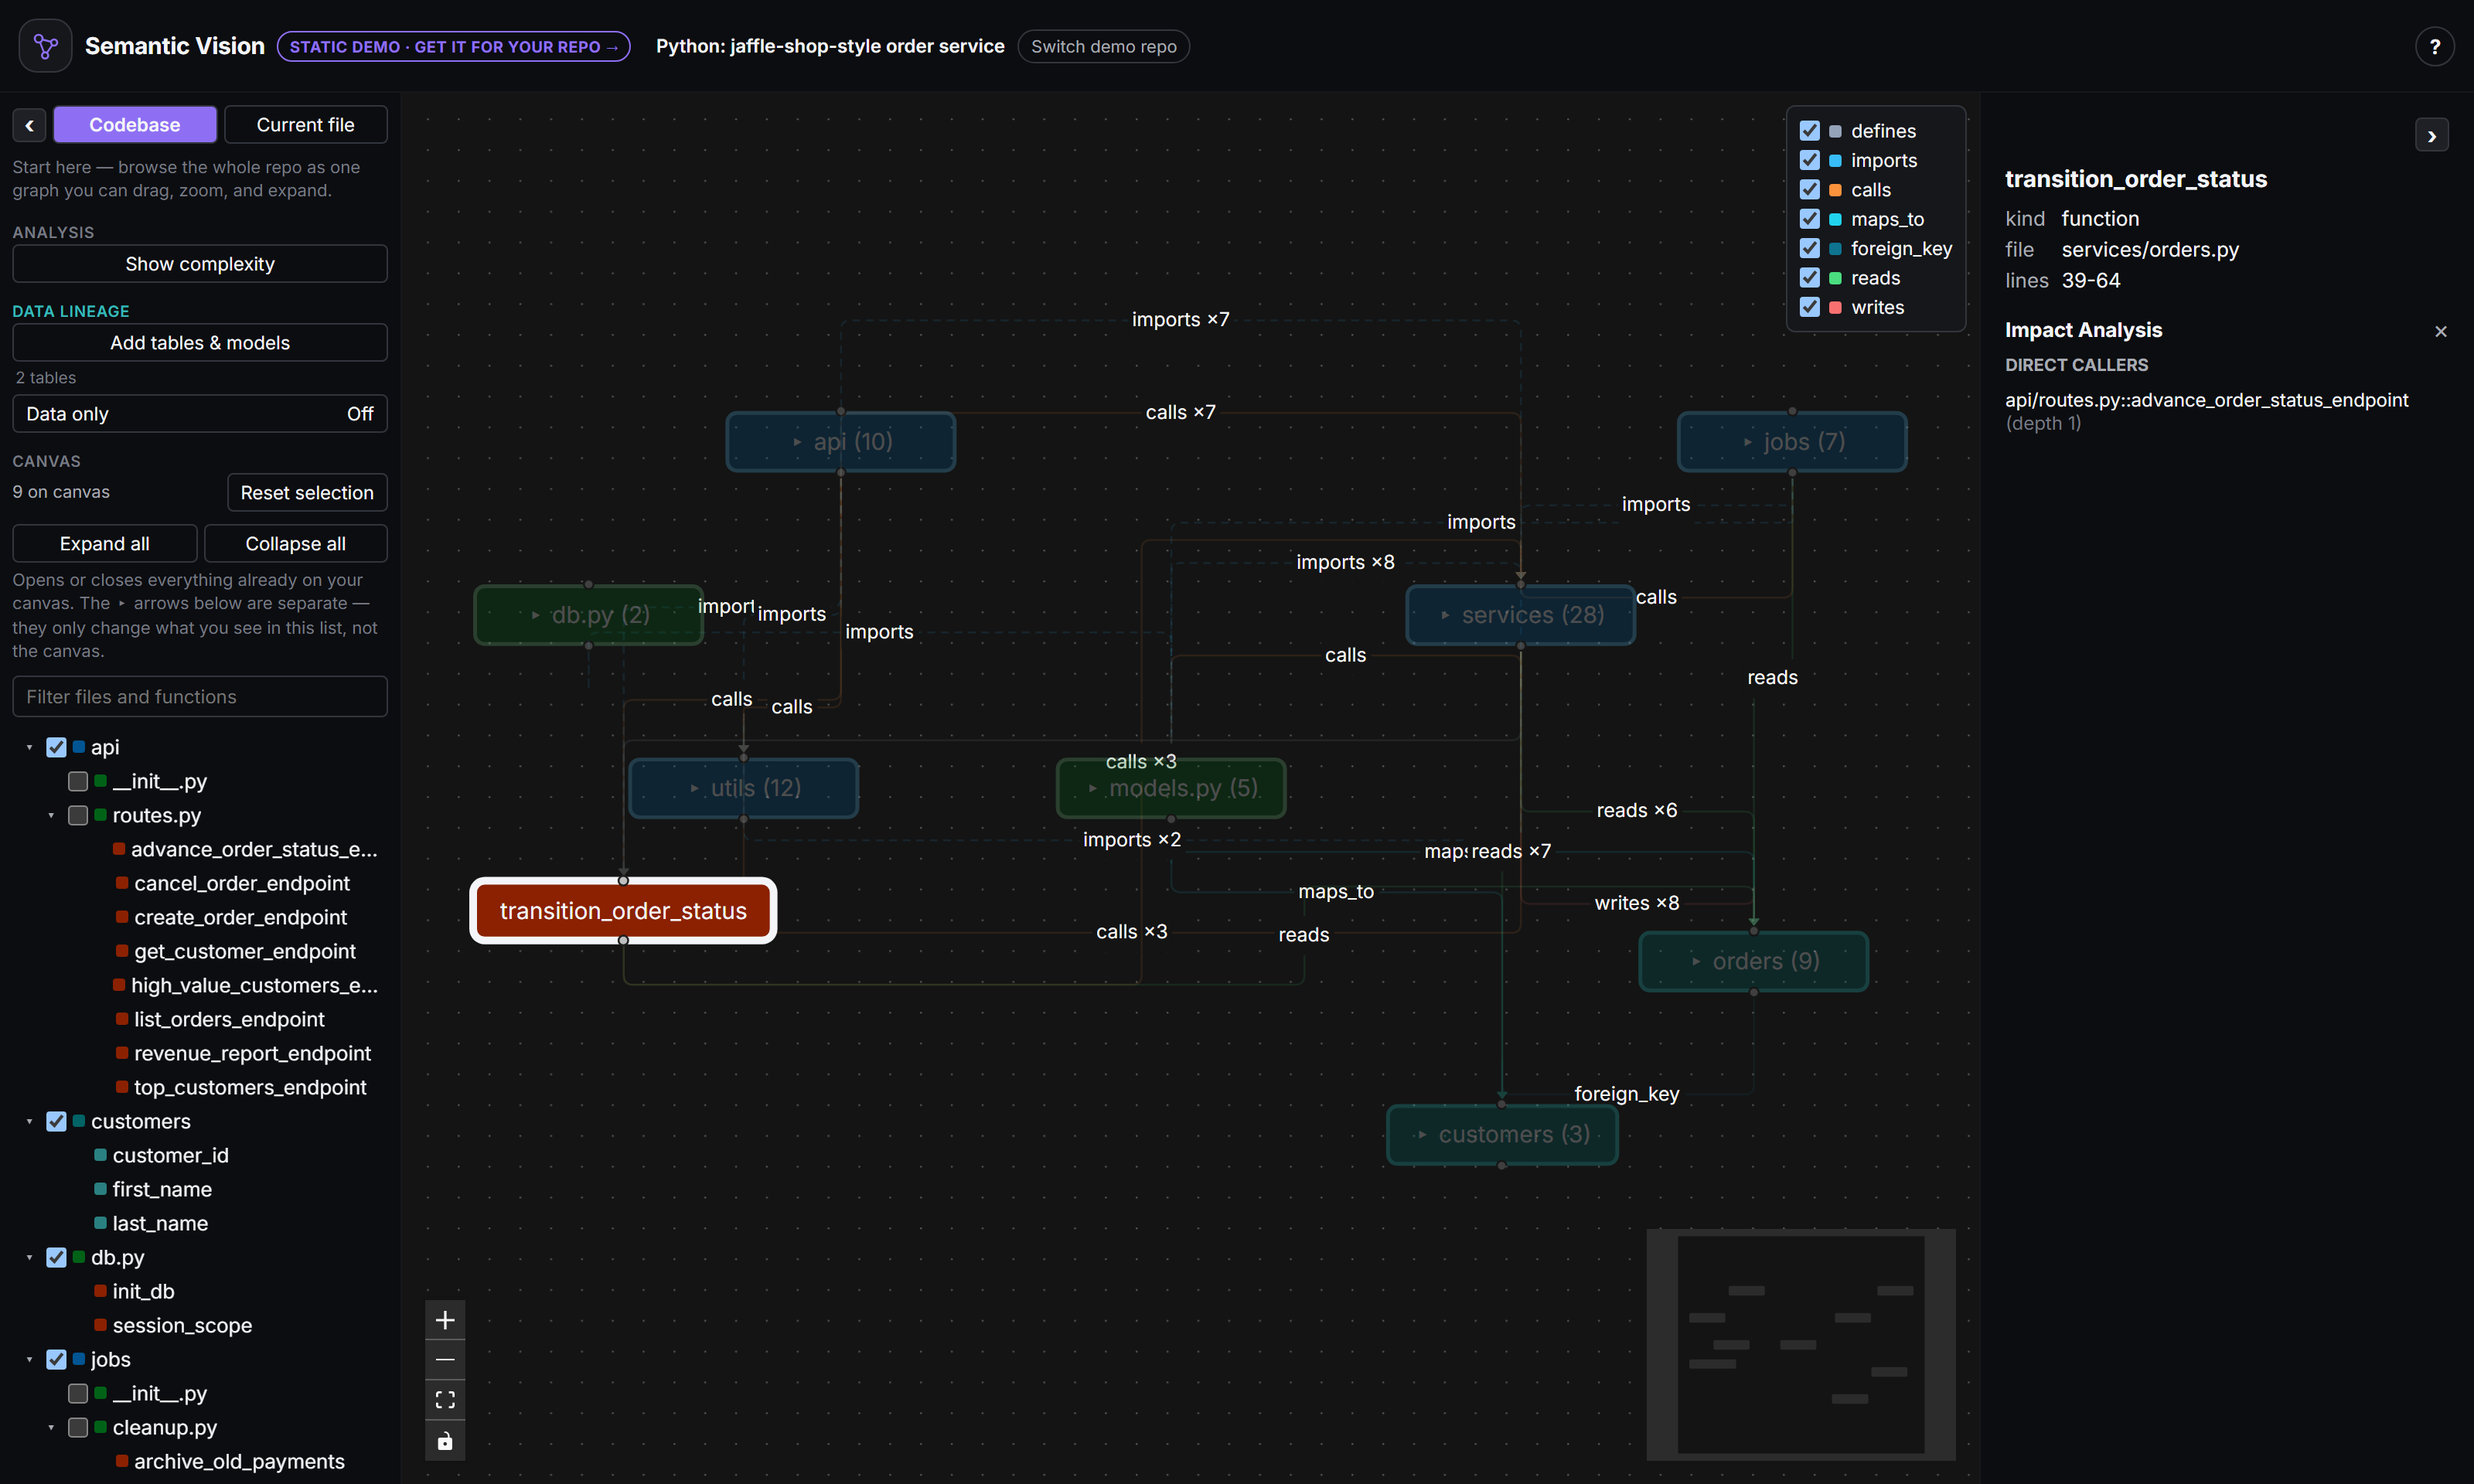
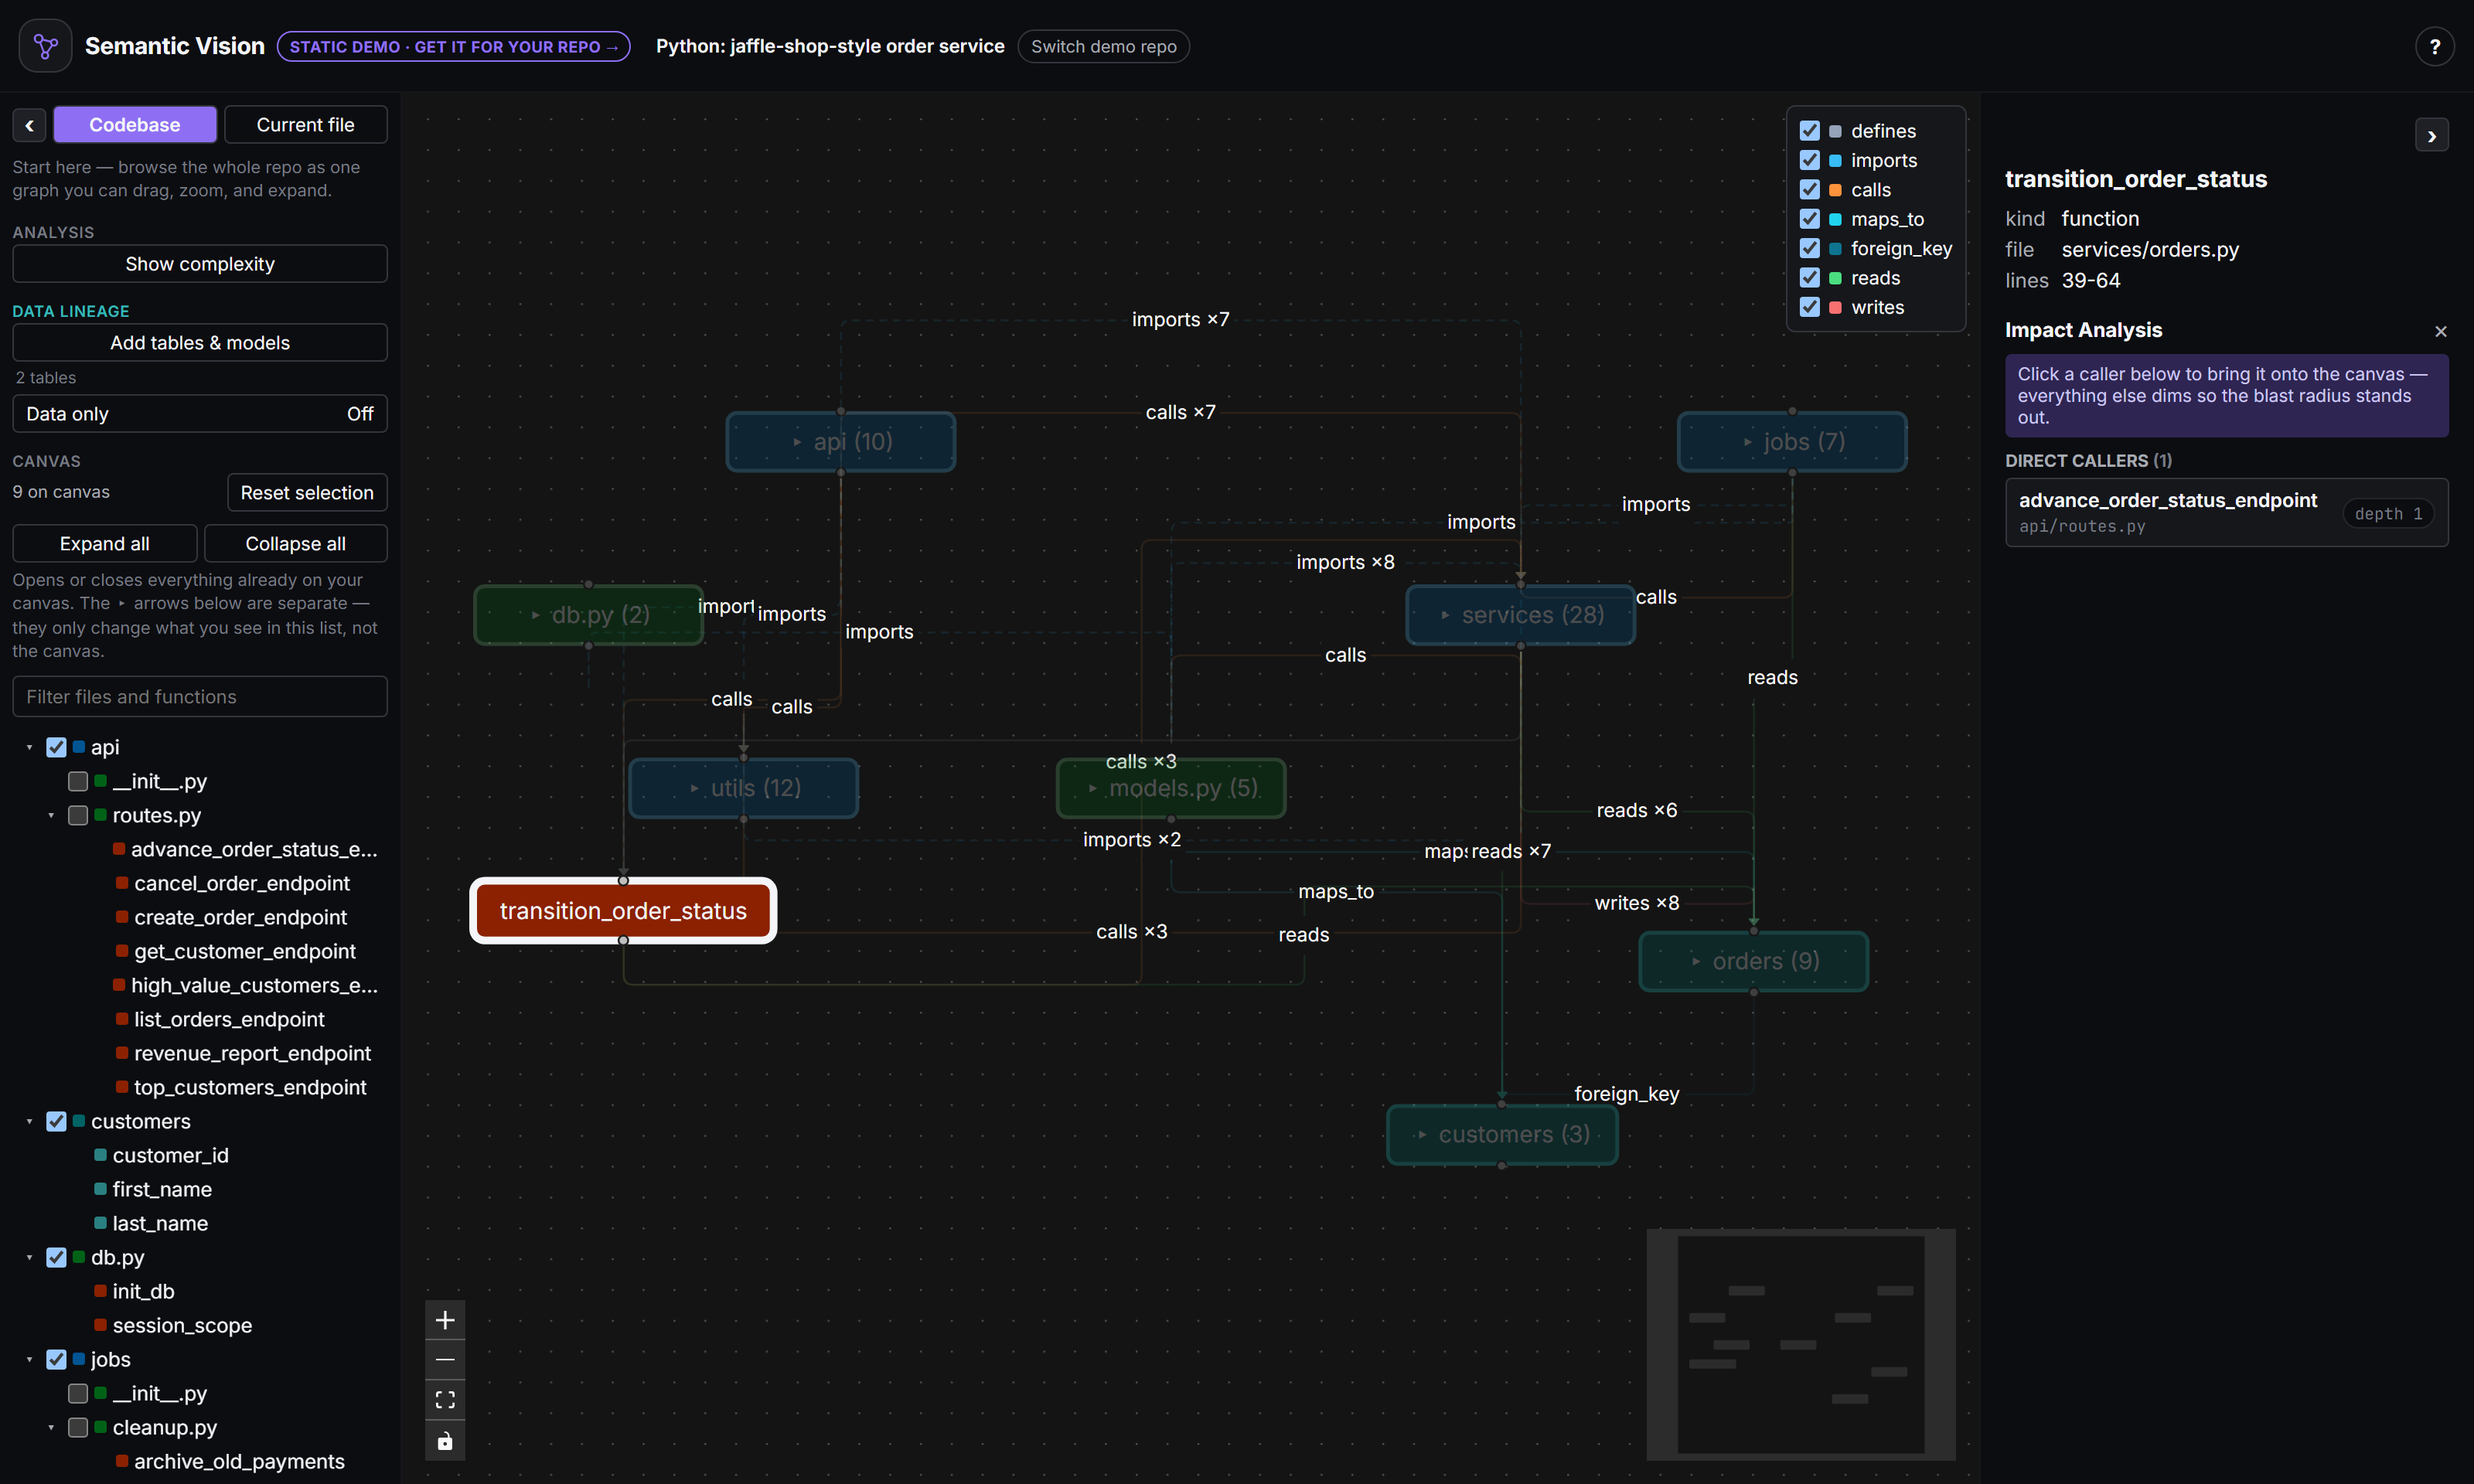
Refresh impact-analysis screenshots to match the new caller-list styling
Also fixes a bug the recapture surfaced: the "New here? Try Impact
Analysis" suggestions rendered even while another pane (e.g. "Add
tables & models") was already open, stacking two unrelated panels.
Only re-shot images that actually show the caller list -- the dbt
ingest screenshot and guides/data-lineage.md's own app_repo walkthrough
are untouched, since neither displays it.

Changed region(s): [[0.8125, 0.2188, 1.0, 0.375], [0.9375, 0.3438, 0.9688, 0.375]]

diff --git a/frontend/src/components/DetailsPanel.tsx b/frontend/src/components/DetailsPanel.tsx
@@ -235,11 +235,11 @@ export function DetailsPanel({
       <div style={{ display: 'flex', justifyContent: 'flex-end', marginBottom: spacing.sm }}>
         <CollapseToggle collapsed={false} onClick={onToggleCollapsed} edge="right" paneName="details panel" />
       </div>
-      {!selectedNode && showcaseItems.length === 0 && (
+      {!selectedNode && !pane && showcaseItems.length === 0 && (
         <p style={{ color: colors.textMuted }}>Select a node to see details.</p>
       )}
 
-      {!selectedNode && showcaseItems.length > 0 && (
+      {!selectedNode && !pane && showcaseItems.length > 0 && (
         <div>
           <p style={{ color: colors.textPrimary, fontWeight: 600, fontSize: 13, margin: `0 0 4px` }}>
             New here? Try Impact Analysis

diff --git a/frontend/landing/index.html b/frontend/landing/index.html
@@ -740,7 +740,7 @@
           it, not after.
         </p>
       </div>
-      <div class="feature-shot"><img src="./img/dbt-lineage-impact.png" alt="Impact analysis run on a table column, highlighting every upstream function, model, and table" loading="lazy" width="1450" height="950" /></div>
+      <div class="feature-shot"><img src="./img/dbt-lineage-impact.png" alt="Impact analysis run on the customers table: direct callers include the dbt model that materializes it, the SQLAlchemy class mapped to it, and every function that reads it" loading="lazy" width="1450" height="950" /></div>
     </div>
   </div>
 </section>
